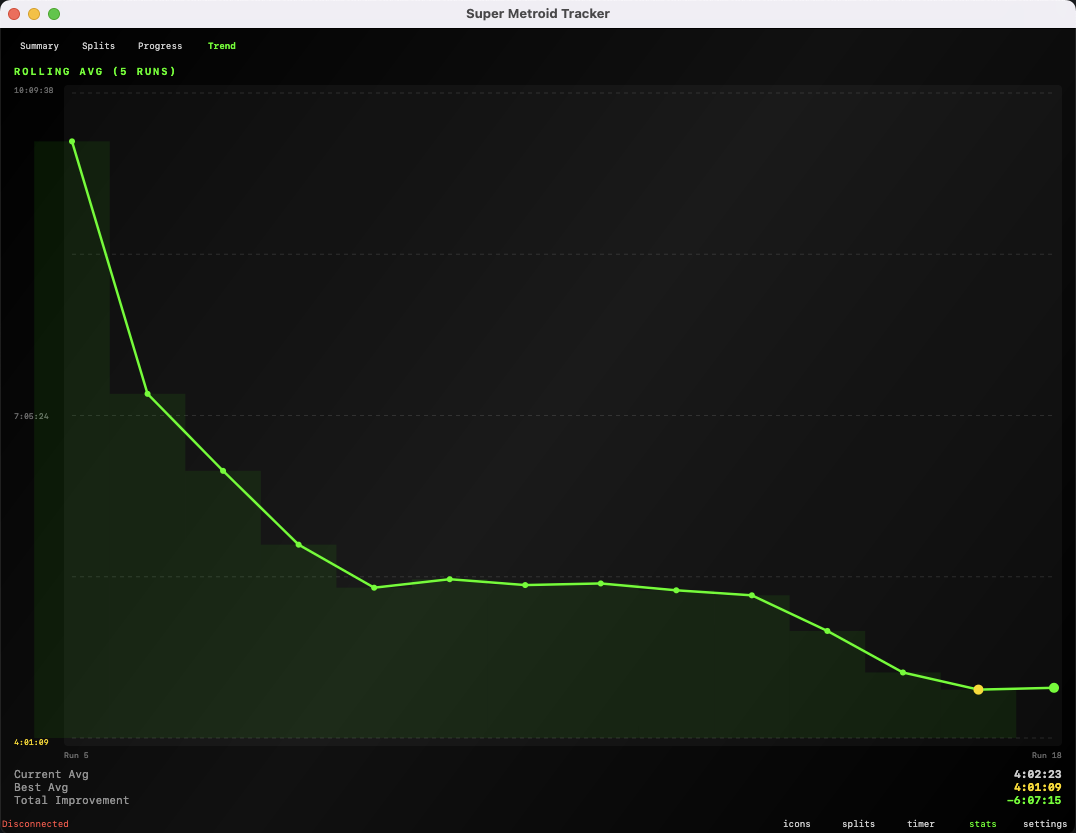
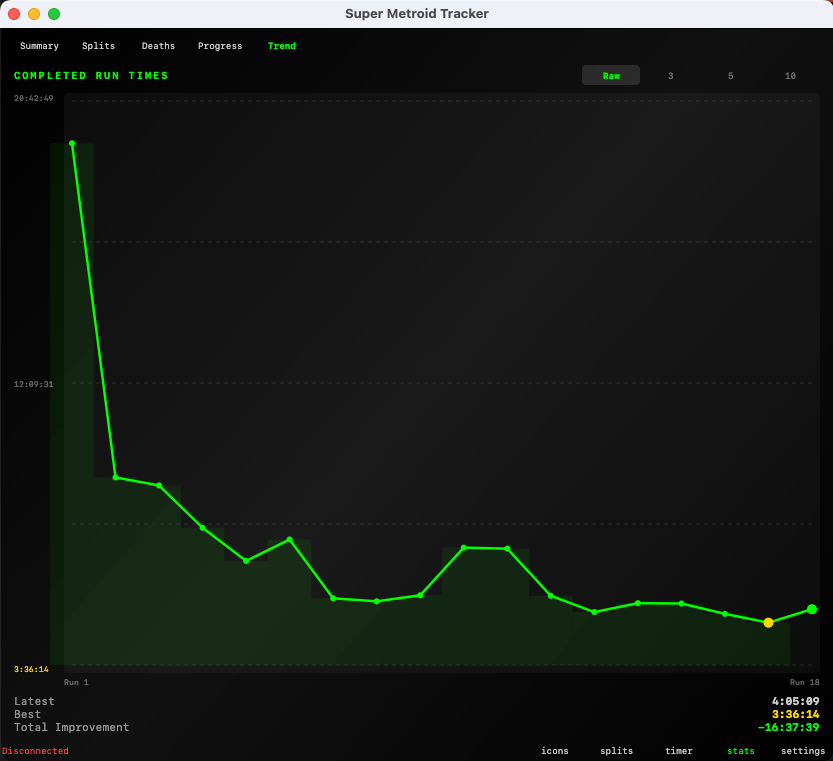
stats - summary, splits, deaths, progress, trend

diff --git a/src/main/kotlin/com/supermetroid/ui/components/StatsPanel.kt b/src/main/kotlin/com/supermetroid/ui/components/StatsPanel.kt
@@ -142,6 +142,11 @@ private fun SummaryTab(runs: List<com.supermetroid.model.RunSession>) {
         StatRow("Completed", stats.completedRuns.toString(), TrackerColors.Success)
         StatRow("Failed", stats.failedRuns.toString(),
             if (stats.failedRuns > 0) TrackerColors.Error else TrackerColors.OnSurfaceVariant)
+        if (stats.totalRuns > 0) {
+            val completionRate = stats.completedRuns.toFloat() / stats.totalRuns * 100
+            StatRow("Completion Rate", "%.2f%%".format(completionRate),
+                redToGreenGradient(completionRate / 100f))
+        }
 
         Divider(color = TrackerColors.OnSurfaceVariant.copy(alpha = 0.3f), modifier = Modifier.padding(vertical = 4.dp))
 
@@ -153,13 +158,6 @@ private fun SummaryTab(runs: List<com.supermetroid.model.RunSession>) {
             StatRow("Fastest Run", formatDuration(stats.fastestRun), GoldColor)
             StatRow("Average", formatDuration(stats.averageCompletedTime ?: 0))
             StatRow("Median", formatDuration(stats.medianCompletedTime ?: 0))
-        }
-
-        if (stats.completedRuns > 0) {
-            Divider(color = TrackerColors.OnSurfaceVariant.copy(alpha = 0.3f), modifier = Modifier.padding(vertical = 4.dp))
-            val completionRate = (stats.completedRuns.toFloat() / stats.totalRuns * 100).toInt()
-            StatRow("Completion Rate", "$completionRate%",
-                redToGreenGradient(completionRate / 100f))
         }
     }
 }
@@ -237,7 +235,7 @@ private fun SplitCompletionsTab(
                 verticalAlignment = Alignment.CenterVertically
             ) {
                 SpriteIcon(
-                    itemId = getSplitItemId(entry.splitId, entry.splitName),
+                    itemId = statsSplitItemId(entry.splitId, entry.splitName),
                     isObtained = entry.timesCompleted > 0,
                     size = 16
                 )
@@ -366,7 +364,7 @@ private fun DeathsTab(
                 verticalAlignment = Alignment.CenterVertically
             ) {
                 SpriteIcon(
-                    itemId = getSplitItemId(entry.splitId, entry.splitName),
+                    itemId = statsSplitItemId(entry.splitId, entry.splitName),
                     isObtained = true,
                     size = 16
                 )
@@ -748,45 +746,11 @@ private fun axisLabelStyle() = MaterialTheme.typography.bodySmall.copy(
 )
 
 /**
- * Map a split ID to a sprite item ID for the icon.
+ * Map a split ID + name to a sprite item ID for the icon.
+ * Delegates to the shared getSplitItemId in SplitsList.
  */
-private fun getSplitItemId(splitId: String, splitName: String): String {
-    // Strip _2, _3 suffixes from deduplicated IDs for icon lookup
-    val baseId = splitId.replace(Regex("_\\d+$"), "")
-    val directMap = mapOf(
-        "ceres_station" to "ceres_station", "morph_ball" to "morph_ball",
-        "first_missile" to "missile", "bomb" to "bomb",
-        "first_super" to "super_missile", "charge_beam" to "charge_beam",
-        "spazer" to "spazer", "kraid" to "kraid",
-        "varia_suit" to "varia_suit", "hi_jump_boots" to "hi_jump_boots",
-        "speed_booster" to "speed_booster", "wave_beam" to "wave_beam",
-        "ice_beam" to "ice_beam", "first_power_bomb" to "power_bomb",
-        "phantoon" to "phantoon", "gravity_suit" to "gravity_suit",
-        "draygon" to "draygon", "space_jump" to "space_jump",
-        "plasma_beam" to "plasma_beam", "ridley" to "ridley",
-        "golden_four" to "golden_four", "mother_brain_1" to "mother_brain_1",
-        "mother_brain_2" to "mother_brain_2", "ship" to "samus_ship",
-        "screw_attack" to "screw_attack", "grapple_beam" to "grapple_beam",
-        "xray_scope" to "xray_scope", "spring_ball" to "spring_ball",
-        "reserve_tank" to "reserve_tank"
-    )
-    directMap[baseId]?.let { return it }
-
-    val name = splitName.lowercase()
-    return when {
-        "missile" in name -> "missile"
-        "super" in name -> "super_missile"
-        "power bomb" in name -> "power_bomb"
-        "morph" in name -> "morph_ball"
-        "bomb" in name -> "bomb"
-        "kraid" in name -> "kraid"
-        "phantoon" in name -> "phantoon"
-        "draygon" in name -> "draygon"
-        "ridley" in name -> "ridley"
-        "mother brain" in name -> "mother_brain_1"
-        "ship" in name || "done" in name || "finish" in name -> "samus_ship"
-        else -> "missile"
-    }
+private fun statsSplitItemId(splitId: String, splitName: String): String {
+    return getSplitItemId(com.supermetroid.model.Split(splitId, splitName, ""))
 }
 
 private fun formatDuration(ms: Long): String {

diff --git a/src/test/kotlin/com/supermetroid/service/StatsServiceTest.kt b/src/test/kotlin/com/supermetroid/service/StatsServiceTest.kt
@@ -214,8 +214,9 @@ class StatsServiceTest {
 
     @Test
     fun `computeSplitDeaths - deaths equal reached minus completed`() {
-        // 3 runs: all reach ceres, 2 reach morph, 1 reaches bomb onward
+        // 4 runs: 1 dies before first split, 1 dies at morph, 1 dies at bomb, 1 completes
         val runs = listOf(
+            makeRun("r0", 5000, false, emptyList(), emptyList()),  // reset before first split
             makeRun("r1", 60000, false, listOf("ceres"), listOf(60000)),
             makeRun("r2", 110000, false, listOf("ceres", "morph"), listOf(60000, 50000)),
             makeRun("r3", 300000, true,
@@ -225,13 +226,13 @@ class StatsServiceTest {
         val deaths = StatsService.computeSplitDeaths(runs, profile)
 
         // Deaths sorted by count descending
-        // ceres: reached=3 (all have splits), completed=3 → deaths=0
+        // ceres: reached=4 (ALL runs), completed=3 → deaths=1
         // morph: reached=3 (completed ceres), completed=2 → deaths=1
         // bomb: reached=2 (completed morph), completed=1 → deaths=1
         // kraid: reached=1 (completed bomb), completed=1 → deaths=0
         // ship: reached=1 (completed kraid), completed=1 → deaths=0
         val deathMap = deaths.associate { it.splitId to it.deaths }
-        assertEquals(0, deathMap["ceres"])
+        assertEquals(1, deathMap["ceres"])
         assertEquals(1, deathMap["morph"])
         assertEquals(1, deathMap["bomb"])
         assertEquals(0, deathMap["kraid"])
@@ -240,8 +241,9 @@ class StatsServiceTest {
 
     @Test
     fun `computeSplitDeaths - sorted by death count descending`() {
-        // Many runs dying at morph, a few at bomb
+        // Many runs dying before or at morph, a few at bomb
         val runs = listOf(
+            makeRun("r0", 5000, false, emptyList(), emptyList(), startMs = 500),  // reset
             makeRun("r1", 60000, false, listOf("ceres"), listOf(60000), startMs = 1000),
             makeRun("r2", 60000, false, listOf("ceres"), listOf(60000), startMs = 2000),
             makeRun("r3", 60000, false, listOf("ceres"), listOf(60000), startMs = 3000),
@@ -252,14 +254,16 @@ class StatsServiceTest {
         )
         val deaths = StatsService.computeSplitDeaths(runs, profile)
 
-        // ceres: reached=5, completed=5 → deaths=0
+        // ceres: reached=6 (all), completed=5 → deaths=1
         // morph: reached=5 (completed ceres), completed=2 → deaths=3 (most deaths!)
         // bomb: reached=2, completed=1 → deaths=1
         // First entry should be the one with most deaths
         assertEquals("morph", deaths[0].splitId)
         assertEquals(3, deaths[0].deaths)
-        assertEquals("bomb", deaths[1].splitId)
-        assertEquals(1, deaths[1].deaths)
+        // ceres and bomb both have 1 death
+        val deathMap = deaths.associate { it.splitId to it.deaths }
+        assertEquals(1, deathMap["ceres"])
+        assertEquals(1, deathMap["bomb"])
     }
 
     @Test
@@ -283,6 +287,7 @@ class StatsServiceTest {
     @Test
     fun `computeSplitDeaths - tracks reached and completed counts`() {
         val runs = listOf(
+            makeRun("r0", 5000, false, emptyList(), emptyList()),  // early reset
             makeRun("r1", 60000, false, listOf("ceres"), listOf(60000)),
             makeRun("r2", 110000, false, listOf("ceres", "morph"), listOf(60000, 50000)),
             makeRun("r3", 300000, true,
@@ -290,11 +295,18 @@ class StatsServiceTest {
                 listOf(60000, 50000, 40000, 80000, 70000))
         )
         val deaths = StatsService.computeSplitDeaths(runs, profile)
+        val ceresEntry = deaths.find { it.splitId == "ceres" }!!
         val morphEntry = deaths.find { it.splitId == "morph" }!!
 
-        assertEquals(3, morphEntry.timesReached)    // 3 runs completed ceres
-        assertEquals(2, morphEntry.timesCompleted)  // 2 runs completed morph
-        assertEquals(1, morphEntry.deaths)           // 3 - 2 = 1
+        // Ceres: ALL 4 runs reach it, 3 complete it
+        assertEquals(4, ceresEntry.timesReached)
+        assertEquals(3, ceresEntry.timesCompleted)
+        assertEquals(1, ceresEntry.deaths)
+
+        // Morph: 3 runs completed ceres → reach morph, 2 complete morph
+        assertEquals(3, morphEntry.timesReached)
+        assertEquals(2, morphEntry.timesCompleted)
+        assertEquals(1, morphEntry.deaths)
     }
 
     // =============================================

diff --git a/src/main/kotlin/com/supermetroid/service/StatsService.kt b/src/main/kotlin/com/supermetroid/service/StatsService.kt
@@ -107,8 +107,8 @@ object StatsService {
 
     /**
      * Compute deaths per split. Deaths at split[i] = runs that reached split[i] minus
-     * runs that completed split[i]. A run reaches split[0] if it has ANY completed splits.
-     * A run reaches split[i] (i>0) if it completed split[i-1].
+     * runs that completed split[i]. ALL runs reach split[0] (every attempt starts at
+     * the first split). A run reaches split[i] (i>0) if it completed split[i-1].
      * Results are sorted by death count (descending).
      */
     fun computeSplitDeaths(runs: List<RunSession>, profile: SplitProfile): List<SplitDeathEntry> {
@@ -119,8 +119,8 @@ object StatsService {
                 run.completedSplits.any { it.splitId == split.id }
             }
             val timesReached = if (index == 0) {
-                // First split: reached by any run that has at least one completed split
-                runs.count { it.completedSplits.isNotEmpty() }
+                // First split: ALL runs reach it (every attempt starts here)
+                runs.size
             } else {
                 val prevSplit = profile.splits[index - 1]
                 runs.count { run ->

diff --git a/src/main/kotlin/com/supermetroid/ui/components/SettingsPanel.kt b/src/main/kotlin/com/supermetroid/ui/components/SettingsPanel.kt
@@ -622,11 +622,12 @@ private fun SplitFormatSection(
                         if (lssFilePath != null) {
                             TextButton(
                                 onClick = { splitFormatService.reloadLiveSplitFile() },
-                                contentPadding = PaddingValues(horizontal = 6.dp, vertical = 2.dp)
+                                contentPadding = PaddingValues(0.dp),
+                                modifier = Modifier.size(32.dp)
                             ) {
                                 Text(
                                     "↻",
-                                    style = MaterialTheme.typography.bodySmall.copy(color = TrackerColors.Primary)
+                                    style = MaterialTheme.typography.bodyLarge.copy(color = TrackerColors.Primary)
                                 )
                             }
                         }

diff --git a/src/main/kotlin/com/supermetroid/ui/SuperMetroidTracker.kt b/src/main/kotlin/com/supermetroid/ui/SuperMetroidTracker.kt
@@ -297,6 +297,12 @@ fun SuperMetroidTrackerApp() {
                 fileStorageService.loadSplitsState()
             }
             autoSplitsEngine.loadSavedState(savedSplitsState)
+
+            // If LiveSplit loaded a profile, switch to it at startup too
+            val resolvedProfile = splitFormatService.getResolvedLiveSplitProfile()
+            if (splitFormatService.isLiveSplitActive() && resolvedProfile != null) {
+                splitProfileService.setProfile(resolvedProfile)
+            }
         }
 
         // CRITICAL: Set up game state callback BEFORE starting the service

diff --git a/src/main/kotlin/com/supermetroid/ui/components/SplitsList.kt b/src/main/kotlin/com/supermetroid/ui/components/SplitsList.kt
@@ -825,7 +825,7 @@ private val nameContainsPatterns: List<Pair<String, String>> = listOf(
  * 2. Contains-based name matching (handles arbitrary LiveSplit segment names)
  * 3. Falls back to "missile" placeholder
  */
-private fun getSplitItemId(split: Split): String {
+internal fun getSplitItemId(split: Split): String {
     splitIdToSpriteId[split.id]?.let { return it }
 
     val name = split.name.lowercase()
